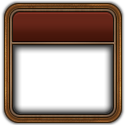
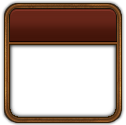
window box graphic update

diff --git a/css/web/boxes.css b/css/web/boxes.css
@@ -761,13 +761,13 @@ Tabs */
 	top: 30%;
 	left: 40%;
 	border-color: transparent;
-	border-width: 35px 10px 10px 10px;
+	border-width: 28px 7px 7px 7px;
 	border-style: solid;
 	border-image-source: url('../images/hud/window.png');
 	border-image-slice: 54 28 28;
 	border-image-width: 54px 28px 28px;
 	border-image-repeat: round;
-	border-image-outset: 0.3;
+	border-image-outset: 0.6;
 	border-radius: 20px;
 	user-select: none;
 }
